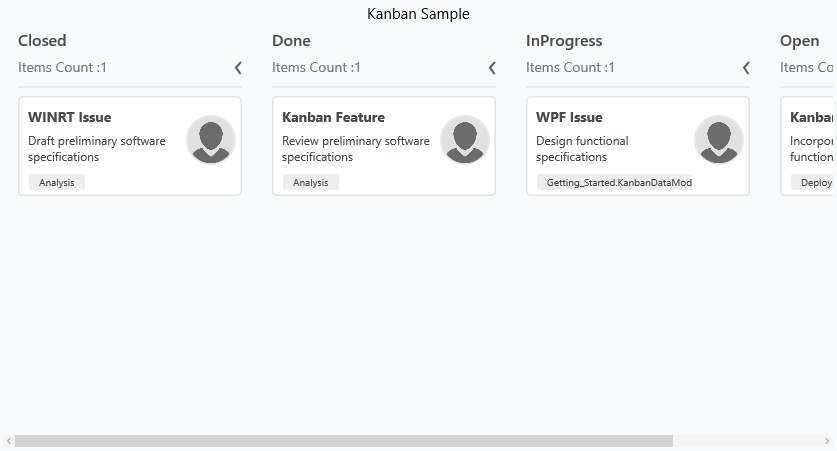
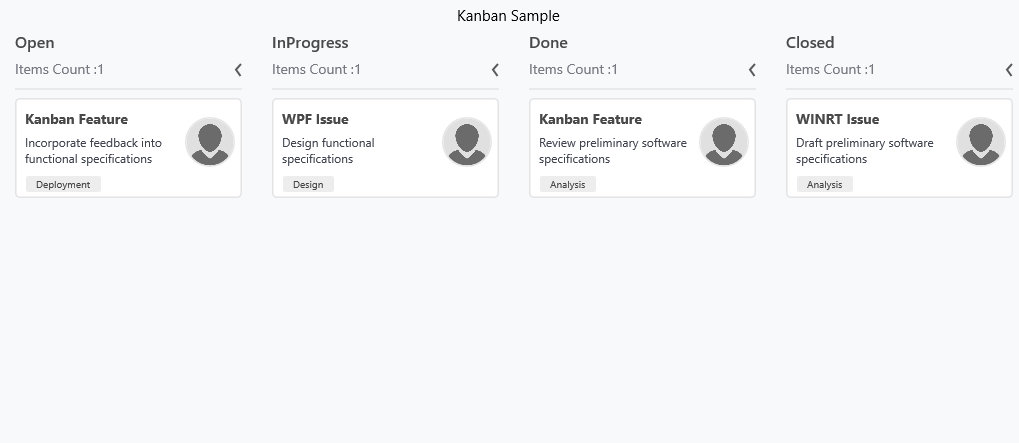
Kanban UG documentation changes

diff --git a/uwp/SfKanban/Getting-started.md b/uwp/SfKanban/Getting-started.md
@@ -10,7 +10,7 @@ documentation: ug
 
 The following section provides an assistance to create a simple Kanban application. 
 
-## Create a simple Kanban from XAML
+## Create a simple Kanban
 
 ### Adding assembly reference
 
@@ -47,15 +47,25 @@ Individual reference can be added to the project instead of SDK “Syncfusion Co
 
 Browse and Add the reference DLL from the following location.
 
-Installed location:\Program Files (x86)\Syncfusion\Essential Studio\14.2.0.26\Assemblies for Universal Windows\10.0\Syncfusion.SfKanban.UWP.dll
+**[Installed location]**:\Program Files (x86)\Syncfusion\Essential Studio\ **[Version]** \Assemblies for Universal Windows\10.0\Syncfusion.SfKanban.UWP.dll
 
 Add the following namespace in the MainPage.xaml
+
+{% tabs %}
 
 {% highlight xml %}
 
 xmlns:syncfusion="using:Syncfusion.UI.Xaml.Kanban"
 
 {% endhighlight %}
+
+{% highlight c# %}
+
+using Syncfusion.UI.Xaml.Kanban;
+
+{% endhighlight %}
+
+{% endtabs %}
 
 ### Defining data model
 
@@ -75,35 +85,17 @@ Tasks = new ObservableCollection<KanbanModel>();
 
 KanbanModel task = new KanbanModel();
 
-task.Title = "WINRT Issue";
-
-task.ID = "6593";
-
-task.Description = "Draft preliminary software specifications";
-
-task.Category = "Closed";
-
-task.ColorKey = "High";
-
-task.Tags = new string[] { "Analysis" };
-
-task.ImageURL = new Uri("ms-appx:///images/icon.jpg");
-
-Tasks.Add(task);
-
-task = new KanbanModel();
-
 task.Title = "Kanban Feature";
 
-task.ID = "25678";
+task.ID = "27654";
 
-task.Description = "Review preliminary software specifications";
+task.Description = "Incorporate feedback into functional specifications";
 
-task.Category = "Done";
+task.Category = "Open";
 
 task.ColorKey = "Low";
 
-task.Tags = new string[] { "Analysis" };
+task.Tags = new string[] { "Deployment" };
 
 task.ImageURL = new Uri("ms-appx:///images/icon.jpg");
 
@@ -127,19 +119,37 @@ task.ImageURL = new Uri("ms-appx:///images/icon.jpg");
 
 Tasks.Add(task);
 
-task = new KanbanModel(); 
+task = new KanbanModel();
 
 task.Title = "Kanban Feature";
 
-task.ID = "27654";
+task.ID = "25678";
 
-task.Description = "Incorporate feedback into functional specifications";
+task.Description = "Review preliminary software specifications";
 
-task.Category = "Open";
+task.Category = "Done";
 
 task.ColorKey = "Low";
 
-task.Tags = new string[] { "Deployment" };
+task.Tags = new string[] { "Analysis" };
+
+task.ImageURL = new Uri("ms-appx:///images/icon.jpg");
+
+Tasks.Add(task);
+
+task = new KanbanModel(); 
+
+task.Title = "WINRT Issue";
+
+task.ID = "6593";
+
+task.Description = "Draft preliminary software specifications";
+
+task.Category = "Closed";
+
+task.ColorKey = "High";
+
+task.Tags = new string[] { "Analysis" };
 
 task.ImageURL = new Uri("ms-appx:///images/icon.jpg");
 
@@ -155,11 +165,13 @@ public ObservableCollection<KanbanModel> Tasks { get; set; }
 
 ### Generating columns for Kanban
 
-ItemsSource – Data source for Kanban can be set using the property that is available in the SfKanban.
+* ItemsSource – Data source for Kanban can be set using the property that is available in the SfKanban.
 
-ColumnMappingPath – it is string property used to map for Kanban column to categorize the data source. Default value of this property is Category which is available in the KanbanModel. Also we can set to any other property from the underlying model.
+* ColumnMappingPath – it is string property used to map for Kanban column to categorize the data source. Default value of this property is Category which is available in the KanbanModel. Also we can set to any other property from the underlying model.
 
-Auto generating columns – Columns are auto-generated if “AutoGeneratedColumns” property is enabled.
+* Auto generating columns – Columns are auto-generated if “AutoGeneratedColumns” property is enabled. By default the value of this property is "true".
+
+{% tabs %}
 
 {% highlight xml %}
 
@@ -171,9 +183,7 @@ Auto generating columns – Columns are auto-generated if “AutoGeneratedColumn
 
 </Grid.DataContext>
 
-<syncfusion:SfKanban Header="Kanban Sample" ItemsSource="{Binding Tasks}"
-
-AutoGenerateColumns="True" ColumnMappingPath="Category">
+<syncfusion:SfKanban Header="Kanban Sample" ItemsSource="{Binding Tasks}">
 
 </syncfusion:SfKanban>
 
@@ -181,14 +191,28 @@ AutoGenerateColumns="True" ColumnMappingPath="Category">
 
 {% endhighlight %}
 
+{% highlight c# %}
+
+SfKanban kanban=new SfKanban();
+
+kanban.ItemsSource=new TaskDetails().Tasks;
+
+grid.Children.Add(kanban);
+
+{% endhighlight %}
+
+ {% endtabs %}
+
 ![](SfKanban_images/SfKanban_img7.png)
 
 
 ### Defining columns
 
-Categories – One or more category values that are defined in the property which is set to the ColumnMappingPath from the underlying model. Kanban column can be defined as shown below.
+* Categories – One or more category values that are defined in the property which is set to the ColumnMappingPath from the underlying model. Kanban column can be defined as shown below.
 
-Title – Header of the individual column can be defined in this property.
+* Title – Header of the individual column can be defined in this property.
+
+{% tabs %}
 
 {% highlight xml %}
 
@@ -209,51 +233,6 @@ AutoGenerateColumns="False">
 </syncfusion:SfKanban>
 
 {% endhighlight %}
-
-![](SfKanban_images/SfKanban_img8.png)
-
-
-## Create a simple Kanban from code behind
-
-* Open the Add Reference window from your project.
-* Choose Windows > Extensions > SyncfusionControls for UWP XAML.
-* Add the following namespace in your C# file, MainWindow.xaml.cs.
-
-{% highlight c# %}
-
-using Syncfusion.UI.Xaml.Kanban;
-
-{% endhighlight %}
-
-### Initialize Kanban
-
-You need to create instance for SfKanban as below.
-
-{% highlight c# %}
-
-SfKanban kanban=new SfKanban();
-
-{% endhighlight %}
-
-### Adding columns to Kanban
-
-Auto generation
-
-{% highlight c# %}
-
-SfKanban kanban=new SfKanban();
-
-kanban.ItemsSource=new TaskDetails().Tasks;
-
-kanban.AutoGenerateColumns = true;
-
-kanban.ColumnMappingPath = "Category";
-
-grid.Children.Add(kanban);
-
-{% endhighlight %}
-
-Manual creation
 
 {% highlight c# %}
 
@@ -292,3 +271,7 @@ kanban.Columns.Add(column);
 grid.Children.Add(kanban);
 
 {% endhighlight %}
+
+{% endtabs %}
+
+![](SfKanban_images/SfKanban_img8.png)

diff --git a/uwp/SfKanban/Workflow-configuration.md b/uwp/SfKanban/Workflow-configuration.md
@@ -11,9 +11,41 @@ documentation: ug
 
 A Kanban workflow is a set of Category and AllowedTransitions that an item moves through its lifecycle and typically represents processes within your organization.
 
-Category – It represents a state of an item at a particular point in a specific workflow.
+* Category – It represents a state of an item at a particular point in a specific workflow.
 
-AllowedTransitions – It is a list of categories to where the card can be moved from the current category.
+* AllowedTransitions – It is a list of categories to where the card can be moved from the current category.
+
+{% tabs %}
+
+{% highlight xml %}
+
+<syncfusion:SfKanban.Workflows>
+
+<syncfusion:KanbanWorkflow Category="Open">
+
+<syncfusion:KanbanWorkflow.AllowedTransitions>
+
+<x:String>InProgress</x:String>
+
+</syncfusion:KanbanWorkflow.AllowedTransitions>
+
+</syncfusion:KanbanWorkflow>
+
+<syncfusion:KanbanWorkflow Category="InProgress">
+
+<syncfusion:KanbanWorkflow.AllowedTransitions>
+
+<x:String>Review</x:String>
+
+<x:String>Done</x:String>
+
+</syncfusion:KanbanWorkflow.AllowedTransitions>
+
+</syncfusion:KanbanWorkflow>
+
+</syncfusion:SfKanban.Workflows>
+
+{% endhighlight %}
 
 {% highlight c# %}
 
@@ -42,6 +74,8 @@ AllowedTransitions = new List<object>() {"Review", "Done"}
 Kanban.Workflows = workFlows;
 
 {% endhighlight %}
+
+ {% endtabs %}
 
 The following snap represents Kanban does not allow user to drop the Kanban card from the column of InProgress -> Open, since workflow does not specify it. 
 

diff --git a/uwp/SfKanban/WIP-limit.md b/uwp/SfKanban/WIP-limit.md
@@ -10,11 +10,13 @@ documentation: ug
 
 MinimumLimit and MaximumLimit properties are used to show the minimum and maximum items count in the Kanban column. These properties are used to validate the error bar color using ErrorBarSettings.
 
-Color – If items count is falls between MinimumLimit and MaximumLimit, this color is applied to ErrorBar.
+* Color – If items count is falls between MinimumLimit and MaximumLimit, this color is applied to ErrorBar.
 
-MinValidationColor – If items count is lesser than MinimumLimit, this color is applied to ErrorBar.
+* MinValidationColor – If items count is lesser than MinimumLimit, this color is applied to ErrorBar.
 
-MaxvalidationColor – If items count is greater than MaximumLimit, this color is applied to ErrorBar.
+* MaxvalidationColor – If items count is greater than MaximumLimit, this color is applied to ErrorBar.
+
+{% tabs %}
 
 {% highlight xml %}
 
@@ -61,5 +63,7 @@ MaxValidationColor = new SolidColorBrush(Colors.Red)
 };
 
 {% endhighlight %}
+
+{% endtabs %}
 
 ![](SfKanban_images/SfKanban_img10.png)

diff --git a/uwp/SfKanban/Indicator-color-palette.md b/uwp/SfKanban/Indicator-color-palette.md
@@ -11,6 +11,8 @@ documentation: ug
 
 Indicator color palette is a collection of ColorMapping that are used to set the indicator color of Kanban cards. In the underlying data model, ColorKey (predefined property) values are set as the Key and Color are mapped to the corresponding Key values as shown in the below code sample.
 
+{}
+
 {% highlight xml %}
 
 <syncfusion:SfKanban.IndicatorColorPalette>
@@ -24,5 +26,33 @@ Indicator color palette is a collection of ColorMapping that are used to set the
 </syncfusion:SfKanban.IndicatorColorPalette>
 
 {% endhighlight %}
+
+{% highlight c# %}
+
+IndicatorColorPalette colorPalette = new IndicatorColorPalette();
+
+colorPalette.Add(new ColorMapping()
+ 
+{
+    Key = "High",
+    Color = Colors.Red
+
+});
+
+colorPalette.Add(new ColorMapping()
+{
+    Key = "Low",
+    Color = Colors.Yellow
+});
+
+colorPalette.Add(new ColorMapping()
+{
+    Key = "Normal",
+    Color = Colors.Green
+});
+
+{% endhighlight %} 
+
+{% endtabs %}
 
 ![](SfKanban_images/SfKanban_img11.png)

diff --git a/uwp/SfKanban/Other-features-in-Kanban.md b/uwp/SfKanban/Other-features-in-Kanban.md
@@ -13,6 +13,8 @@ AllowDrag – It enable or disable the dragging cards in the corresponding Kanba
 
 AlllowDrop – It used to enable or disable the Kanban column to drop the Kanban cards while dragging. 
 
+{% tabs %}
+
 {% highlight xml %}
 
 <syncfusion:KanbanColumn x:Name="Column1" 
@@ -26,4 +28,20 @@ AllowDrag="False"
 AllowDrop="False"/>
 
 {% endhighlight %}
+
+{% highlight c# %}
+
+KanbanColumn column=new KanbanColumn();
+
+column.Categories = "Open";
+
+column.Title = "To Do";
+
+column.AlllowDrop = false;
+
+column.AllowDrag = false;
+
+kanban.Columns.Add(column);
+
+{% endhighlight %} {% endtabs %}
 
